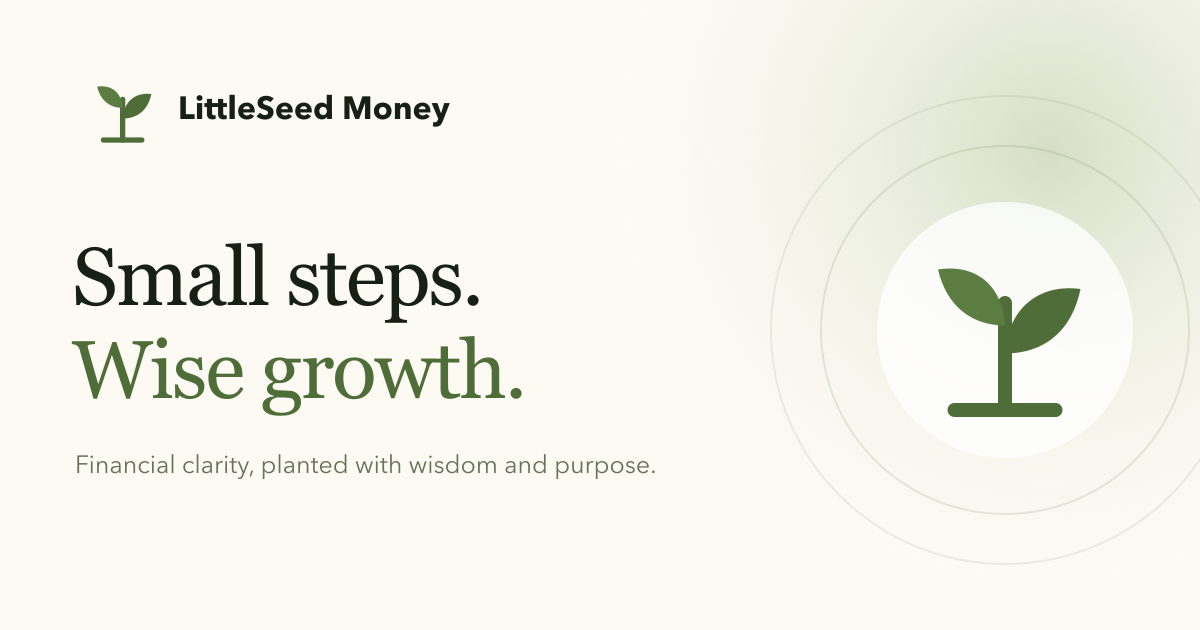
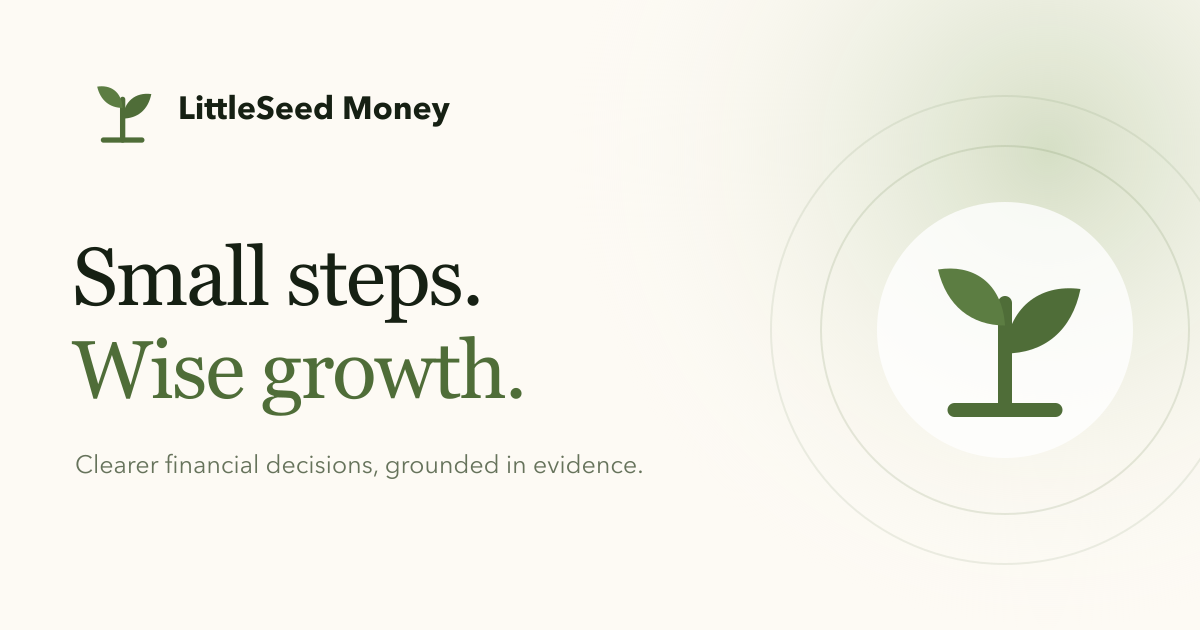
Refine inclusive brand positioning

Changed region(s): [[0.0617, 0.7238, 0.555, 0.754]]

diff --git a/app/page.tsx b/app/page.tsx
@@ -9,7 +9,7 @@ const productAreas = [
     number: "01",
     title: "Financial Health Report",
     description:
-      "A clear picture of where you are today, the risks to watch, and the next wise step.",
+      "A clear picture of where you are today, supported by transparent calculations and assumptions.",
   },
   {
     number: "02",
@@ -45,7 +45,7 @@ const productAreas = [
     number: "07",
     title: "Tax Snapshot",
     description:
-      "Learn how taxes shape your income, choices, and opportunities to plan ahead.",
+      "Explore how tax assumptions may shape income and planning scenarios.",
   },
   {
     number: "08",
@@ -74,7 +74,7 @@ const roadmap = [
   {
     phase: "Phase 4",
     title: "AI Explanation Layer",
-    description: "Plain-language guidance built on calculated results.",
+    description: "Plain-language explanations grounded in calculated results.",
   },
 ];
 
@@ -90,7 +90,7 @@ export default function Home() {
           <div className="max-w-3xl">
             <p className="mb-6 flex items-center gap-2 text-sm font-semibold text-seed-700">
               <span className="h-px w-8 bg-earth-500" />
-              Financial clarity for ordinary people
+              Financial clarity for everyone
             </p>
             <h1 className="font-display text-balance text-5xl font-medium leading-[1.05] tracking-[-0.03em] text-seed-950 sm:text-6xl lg:text-7xl">
               Small steps.
@@ -98,9 +98,9 @@ export default function Home() {
               <span className="text-seed-600">Wise growth.</span>
             </h1>
             <p className="mt-7 max-w-2xl text-lg leading-8 text-seed-800/80 sm:text-xl">
-              LittleSeed Money helps ordinary people understand money, make
-              better financial decisions, and grow what they have been given
-              with wisdom and purpose.
+              LittleSeed Money helps people understand money, make clearer
+              financial decisions, and grow what they have been given with
+              wisdom and purpose.
             </p>
             <div className="mt-9 flex flex-col gap-3 sm:flex-row">
               <a
@@ -141,17 +141,18 @@ export default function Home() {
           </p>
           <div>
             <h2 className="font-display text-balance text-3xl font-medium leading-tight sm:text-4xl lg:text-5xl">
-              The economy is moving faster than financial understanding.
+              Financial life keeps changing. Understanding it should not feel
+              out of reach.
             </h2>
             <div className="mt-8 grid gap-6 text-lg leading-8 text-seed-100/75 sm:grid-cols-2">
               <p>
-                AI, capital, automation, and financial markets are changing how
-                opportunity grows and who gets access to it.
+                The ways people earn, spend, save, invest, and build security
+                continue to evolve across generations and economic cycles.
               </p>
               <p>
-                Many ordinary people are being left behind, not because they
-                are lazy, but because the system is confusing and trustworthy
-                guidance is hard to find.
+                New technologies, including AI, automation, and digital assets,
+                add new possibilities and risks to financial choices that were
+                already complex.
               </p>
             </div>
           </div>
@@ -162,8 +163,8 @@ export default function Home() {
         <div className="mx-auto max-w-7xl px-6 lg:px-8">
           <SectionHeading
             eyebrow="Our mission"
-            title="End financial illiteracy in the age of AI capitalism."
-            description="LittleSeed Money is being built education-first and evidence-based. Calculations, transparent assumptions, and reliable data should come before confident-sounding advice."
+            title="Make financial understanding accessible to everyone."
+            description="LittleSeed Money is being built education-first and evidence-based. Calculations, visible assumptions, and reliable sources should come before confident-sounding advice."
           />
           <div className="mt-14 grid gap-px overflow-hidden rounded-3xl border border-seed-900/10 bg-seed-900/10 md:grid-cols-3">
             {[
@@ -197,9 +198,9 @@ export default function Home() {
             </h2>
             <p className="mt-7 text-lg leading-8 text-seed-900/75">
               LittleSeed comes from the belief that small beginnings can grow
-              when planted with faith, wisdom, and patience. A seed may look
-              small, but over time it can provide shade, fruit, and blessing
-              for others.
+              when planted with wisdom, patience, and care. A seed may look
+              small, but over time it can provide shade, fruit, and something
+              meaningful for others.
             </p>
             <p className="mt-5 border-l-2 border-earth-400 pl-6 font-display text-xl leading-9 text-seed-900 sm:text-2xl">
               Money is not the master. It is a seed, something entrusted to us,
@@ -286,7 +287,7 @@ export default function Home() {
               </h2>
               <p className="mt-5 max-w-xl text-lg leading-8 text-seed-100/75">
                 Join the waitlist and follow LittleSeed Money as we build
-                clearer, wiser financial tools for ordinary people.
+                clearer, wiser financial tools for real life.
               </p>
             </div>
             <WaitlistForm />

diff --git a/app/layout.tsx b/app/layout.tsx
@@ -4,7 +4,7 @@ import "./globals.css";
 export const metadata: Metadata = {
   title: "LittleSeed Money | Small steps. Wise growth.",
   description:
-    "LittleSeed Money helps ordinary people understand money, make better financial decisions, and grow what they have been given with wisdom and purpose.",
+    "Financial clarity for everyone. Understand money, make clearer decisions, and grow with wisdom and purpose.",
 };
 
 export default function RootLayout({

diff --git a/README.md b/README.md
@@ -1,6 +1,7 @@
 # LittleSeed Money
 
-Public website for LittleSeed Money.
+LittleSeed Money is building evidence-based financial tools that help people
+understand money, compare meaningful choices, and grow with wisdom and purpose.
 
 ```text
 Small steps. Wise growth.
@@ -9,6 +10,14 @@ Small steps. Wise growth.
 This repository contains public pages, brand assets, education content, and the
 future web interface. Private financial models and internal product documents
 live in separate private repositories.
+
+The project combines transparent financial models, modern data engineering,
+trusted sources, and clear explanations.
+
+AI, automation, and digital assets are part of the changing financial
+environment the product addresses. They are not the boundary of the brand or
+its long-term mission. AI supports explanation where it adds real value; it
+does not replace the underlying calculations.
 
 ## Development
 